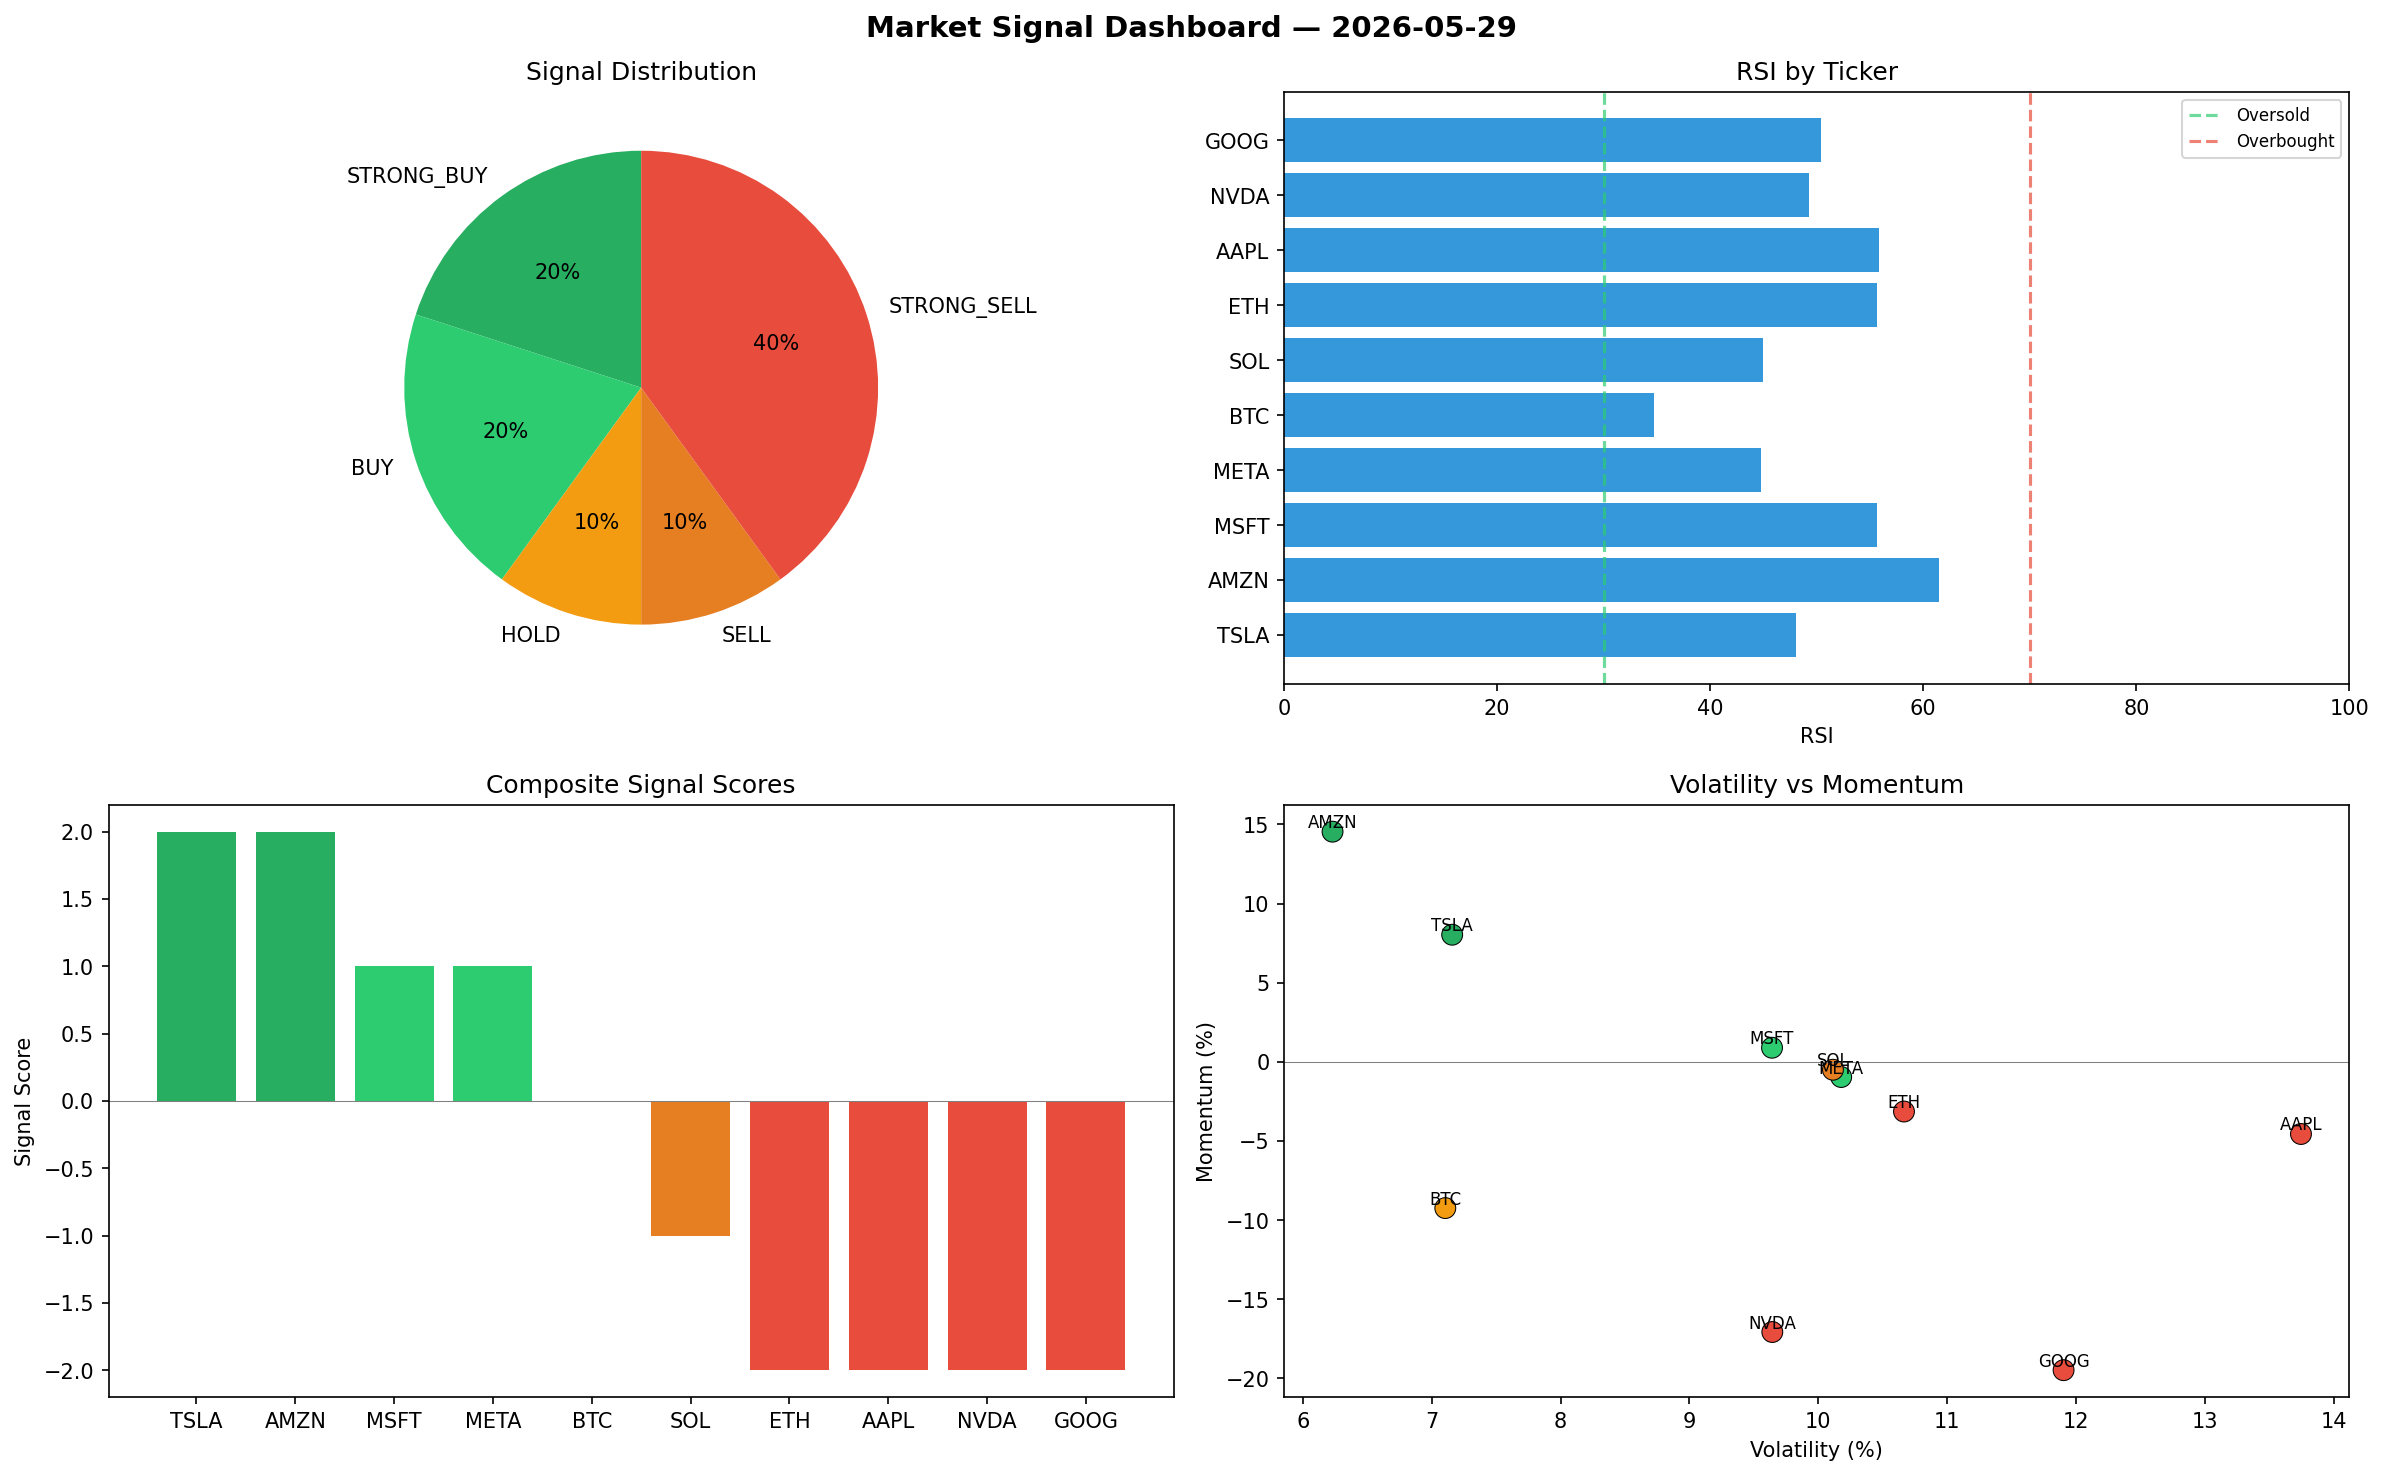
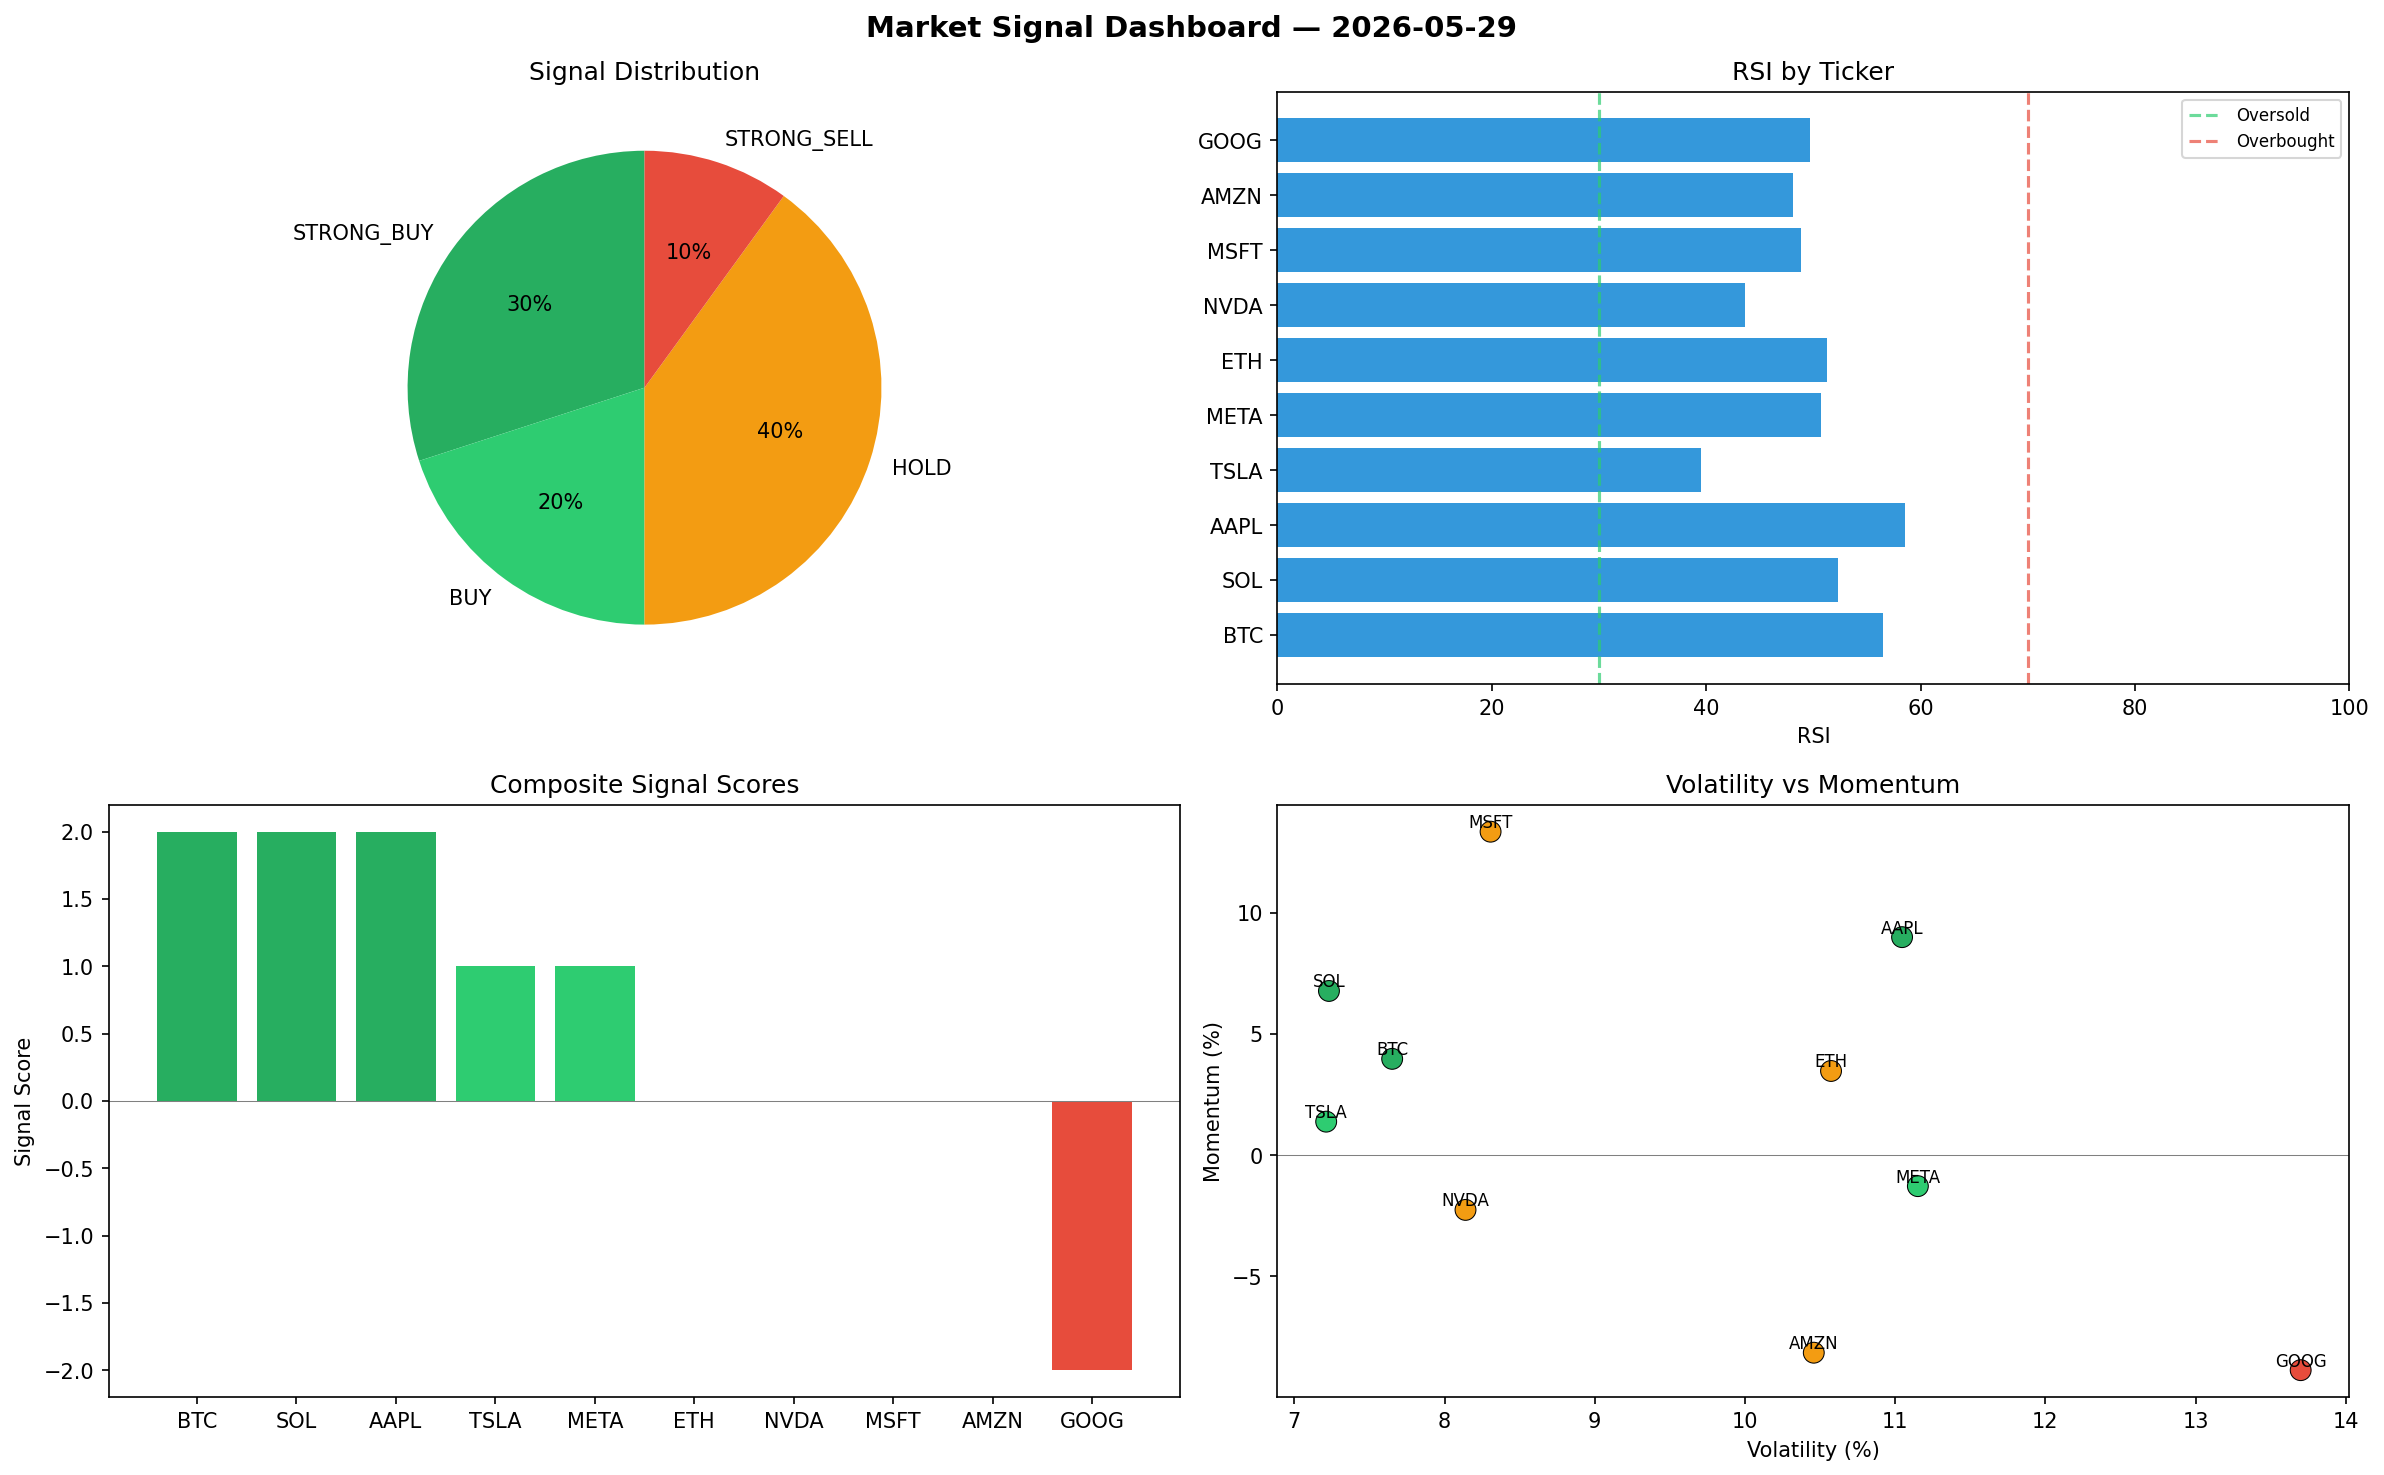
automated-bots: market signals 2026-05-29T22:10

diff --git a/logs/2026-05-29.md b/logs/2026-05-29.md
@@ -1,6 +1,6 @@
 # Market Signal Report — 2026-05-29
 
-**Run ID:** `4c448d0142` | **Buy:** 4 | **Sell:** 5 | **Hold:** 1
+**Run ID:** `6e35bf8712` | **Buy:** 5 | **Sell:** 1 | **Hold:** 4
 
 ![Dashboard](2026-05-29_dashboard.png)
 
@@ -8,28 +8,28 @@
 
 | Ticker | Price | Signal | Score | RSI | Momentum | Confidence |
 |--------|-------|--------|-------|-----|----------|------------|
-| TSLA | $1577.76 | **STRONG_BUY** | 2 | 48.04 | 0.0803 | 0.5 |
-| AMZN | $1549.02 | **STRONG_BUY** | 2 | 61.43 | 0.1454 | 0.5 |
-| MSFT | $3528.36 | **BUY** | 1 | 55.61 | 0.0089 | 0.25 |
-| META | $2500.37 | **BUY** | 1 | 44.79 | -0.0096 | 0.25 |
-| BTC | $4881.25 | **HOLD** | 0 | 34.74 | -0.0924 | 0.0 |
-| SOL | $4411.43 | **SELL** | -1 | 44.91 | -0.005 | 0.25 |
-| ETH | $1416.33 | **STRONG_SELL** | -2 | 55.62 | -0.0314 | 0.5 |
-| AAPL | $4483.11 | **STRONG_SELL** | -2 | 55.87 | -0.0456 | 0.5 |
-| NVDA | $3652.56 | **STRONG_SELL** | -2 | 49.23 | -0.1707 | 0.5 |
-| GOOG | $1704.53 | **STRONG_SELL** | -2 | 50.38 | -0.1948 | 0.5 |
+| BTC | $273.79 | **STRONG_BUY** | 2 | 56.48 | 0.0397 | 0.5 |
+| SOL | $1394.93 | **STRONG_BUY** | 2 | 52.32 | 0.0677 | 0.5 |
+| AAPL | $3541.82 | **STRONG_BUY** | 2 | 58.57 | 0.0899 | 0.5 |
+| TSLA | $1045.51 | **BUY** | 1 | 39.5 | 0.0138 | 0.25 |
+| META | $2169.94 | **BUY** | 1 | 50.68 | -0.0128 | 0.25 |
+| ETH | $4581.25 | **HOLD** | 0 | 51.28 | 0.0347 | 0.0 |
+| NVDA | $99.73 | **HOLD** | 0 | 43.62 | -0.0226 | 0.0 |
+| MSFT | $4436.22 | **HOLD** | 0 | 48.8 | 0.1334 | 0.0 |
+| AMZN | $811.92 | **HOLD** | 0 | 48.08 | -0.0815 | 0.0 |
+| GOOG | $3791.92 | **STRONG_SELL** | -2 | 49.69 | -0.0887 | 0.5 |
 
 ## Delta vs Yesterday
 
 | Ticker | Today | Yesterday | Price Change | Signal Changed |
 |--------|-------|-----------|-------------|----------------|
-| TSLA | STRONG_BUY | HOLD | 📉 -41.67% | ⚠ YES |
-| AMZN | STRONG_BUY | STRONG_BUY | 📉 -56.85% | — |
-| MSFT | BUY | STRONG_BUY | 📈 24.47% | ⚠ YES |
-| META | BUY | HOLD | 📉 -16.79% | ⚠ YES |
-| BTC | HOLD | STRONG_BUY | 📈 43.48% | ⚠ YES |
-| SOL | SELL | BUY | 📈 49.5% | ⚠ YES |
-| ETH | STRONG_SELL | SELL | 📉 -65.07% | ⚠ YES |
-| AAPL | STRONG_SELL | STRONG_SELL | 📈 20.95% | — |
-| NVDA | STRONG_SELL | HOLD | 📉 -19.36% | ⚠ YES |
-| GOOG | STRONG_SELL | STRONG_BUY | 📉 -60.36% | ⚠ YES |
+| BTC | STRONG_BUY | STRONG_BUY | 📉 -91.95% | — |
+| SOL | STRONG_BUY | BUY | 📉 -52.73% | ⚠ YES |
+| AAPL | STRONG_BUY | STRONG_SELL | 📉 -4.44% | ⚠ YES |
+| TSLA | BUY | HOLD | 📉 -61.35% | ⚠ YES |
+| META | BUY | HOLD | 📉 -27.79% | ⚠ YES |
+| ETH | HOLD | SELL | 📈 12.99% | ⚠ YES |
+| NVDA | HOLD | HOLD | 📉 -97.8% | — |
+| MSFT | HOLD | STRONG_BUY | 📈 56.49% | ⚠ YES |
+| AMZN | HOLD | STRONG_BUY | 📉 -77.38% | ⚠ YES |
+| GOOG | STRONG_SELL | STRONG_BUY | 📉 -11.82% | ⚠ YES |
